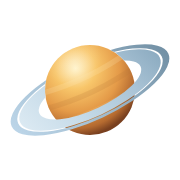
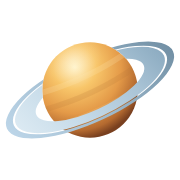
等比例放大网站图标 6% 并同步各端资源

Changed region(s): [[0.0278, 0.2222, 0.9722, 0.7778]]

diff --git a/src/index.html b/src/index.html
@@ -60,11 +60,11 @@
 
 
     <title>Glass Start</title>
-    <link rel="icon" type="image/svg+xml" href="./icons/app/favicon.svg?v=2b76264e9a">
-    <link rel="icon" href="./favicon.ico">
-    <link rel="apple-touch-icon" href="./apple-touch-icon.png?v=2184a21a09">
-    <link rel="apple-touch-icon" sizes="180x180" href="./apple-touch-icon.png?v=2184a21a09">
-    <link rel="apple-touch-icon-precomposed" href="./apple-touch-icon.png?v=2184a21a09">
+    <link rel="icon" type="image/svg+xml" href="./icons/app/favicon.svg?v=609b1c5a3f">
+    <link rel="icon" href="./favicon.ico?v=0d8abc8faa">
+    <link rel="apple-touch-icon" href="./apple-touch-icon.png?v=16a3bbb7e3">
+    <link rel="apple-touch-icon" sizes="180x180" href="./apple-touch-icon.png?v=16a3bbb7e3">
+    <link rel="apple-touch-icon-precomposed" href="./apple-touch-icon.png?v=16a3bbb7e3">
     <link rel="manifest" href="./manifest.json">
     <!-- 外部服务 DNS 预解析提示，是否执行由浏览器决定。 -->
     <link rel="dns-prefetch" href="https://a.favicon.im">
@@ -496,7 +496,7 @@
                 <div class="p-3.5 glass-subcard flex flex-col items-stretch sm:flex-row sm:items-center justify-between gap-3 shrink-0 select-none">
                     <div class="flex items-center gap-3">
                         <div class="size-9 rounded-control bg-white/10 flex items-center justify-center border border-white/15 shadow-inner shrink-0 overflow-hidden">
-                            <img src="./icons/app/logo.svg" class="size-6 object-contain select-none pointer-events-none" alt="" aria-hidden="true" loading="lazy" decoding="async">
+                            <img src="./icons/app/logo.svg?v=609b1c5a3f" class="size-6 object-contain select-none pointer-events-none" alt="" aria-hidden="true" loading="lazy" decoding="async">
                         </div>
                         <div class="flex items-center gap-2">
                             <span class="text-sm font-semibold text-white/95 tracking-tight leading-none whitespace-nowrap">Glass Start</span>
